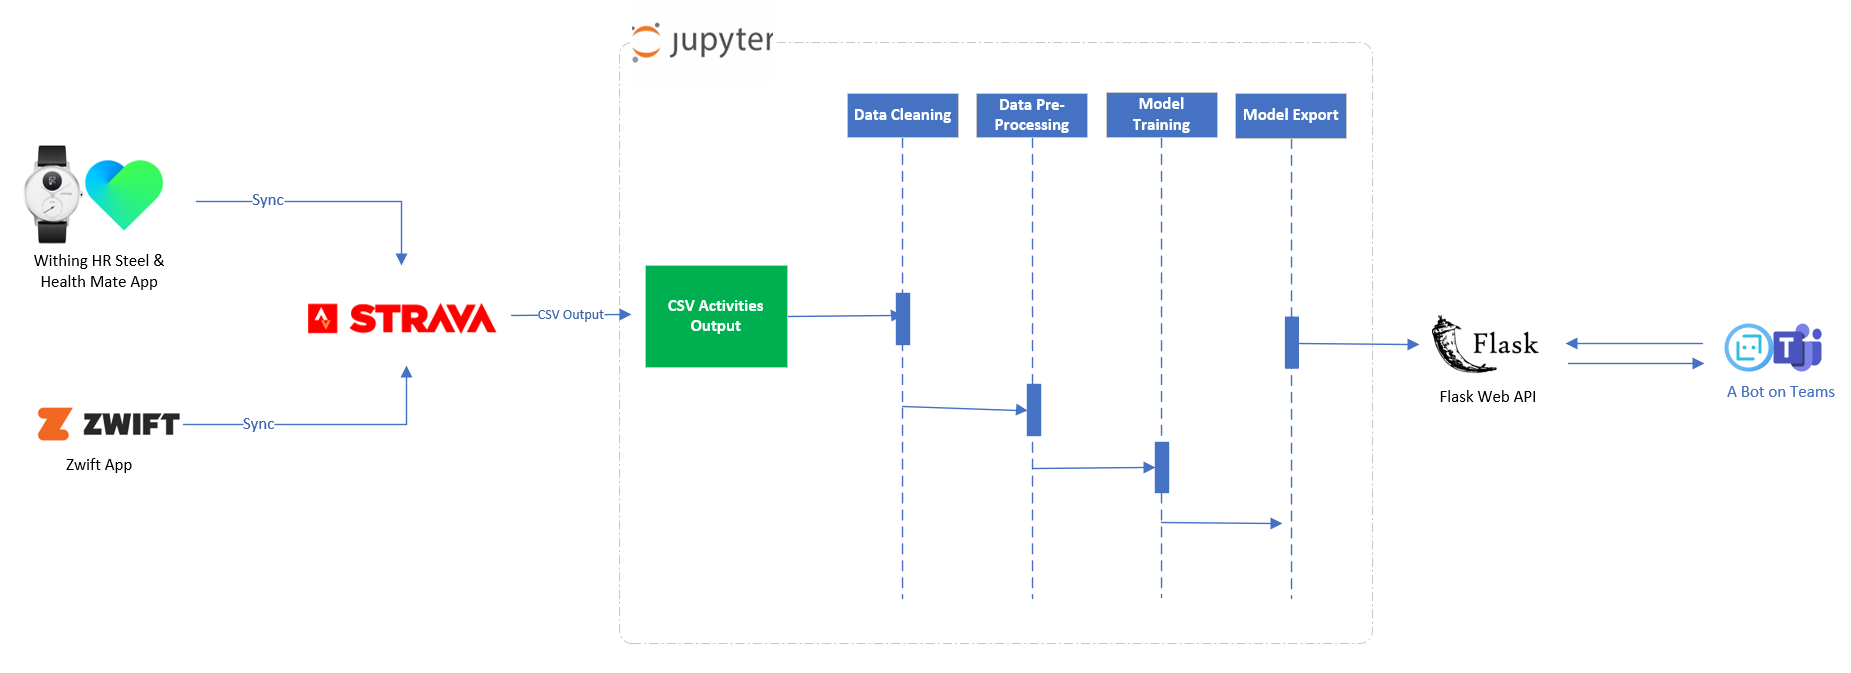
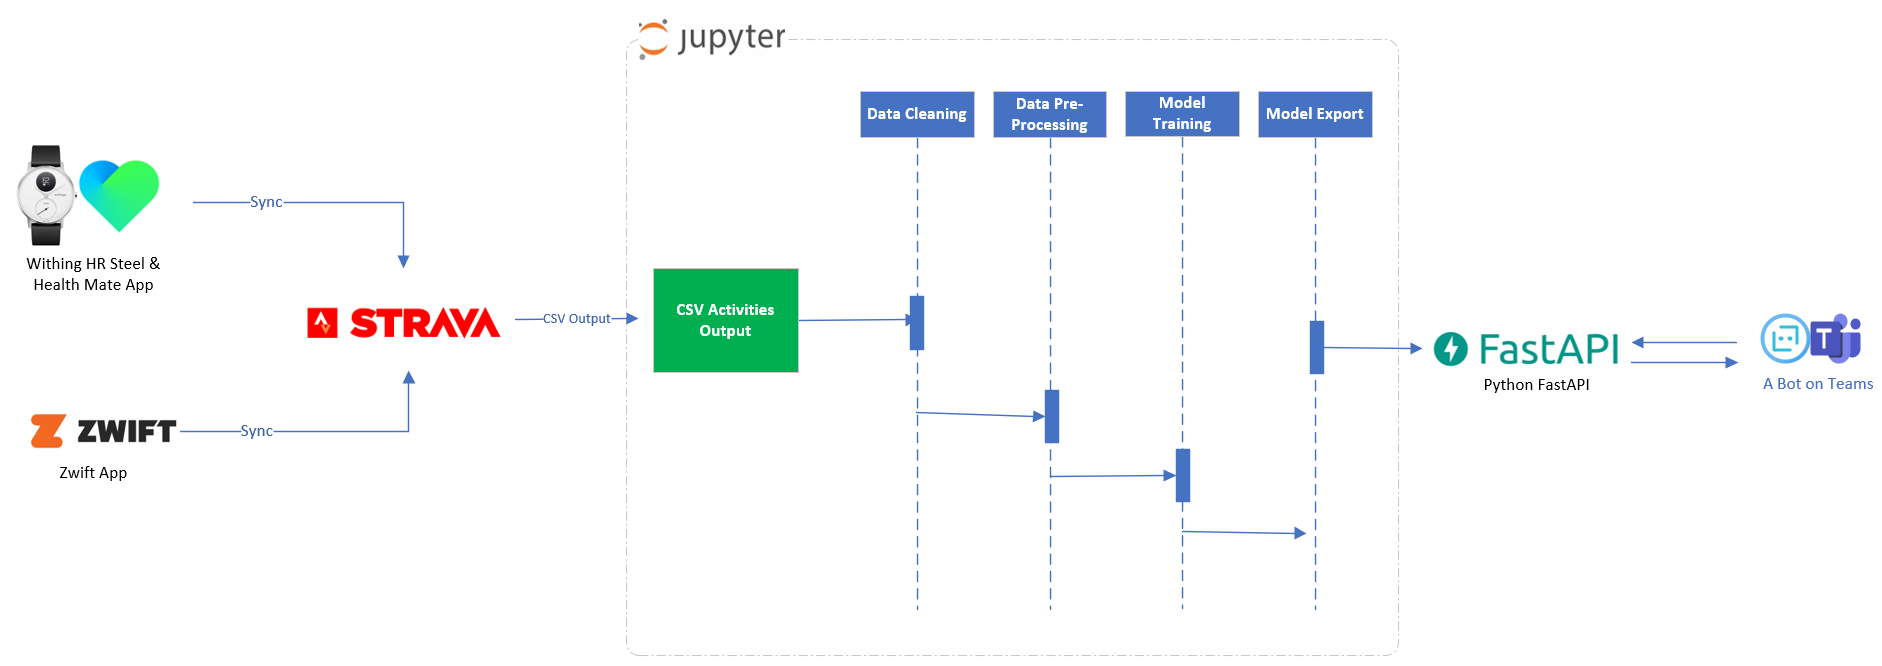
Add FastAPI details on Readme file

diff --git a/Readme.md b/Readme.md
@@ -62,11 +62,11 @@ Folder Structure:
   * `7 - Predict Workout Model.ipynb`
   * `8 - Predict Workout.ipynb`
   * `9 - Present.ipynb` - Highlight for data analysis and results
-  * `app.py` - Flask web app for prediction model*
-  * `myconfig.py` - Environmental variables*
-  * `utils.py` -  Common utility functions
-* `web` - Flask Web API for prediction model
+* `web` - FastAPI for prediction model
   * `model` - Contains models for prediction
+  * `app.py` - FastAPI web app for prediction model
+  * `myconfig.py` - Environmental variables
+  * `utils.py` -  Common utility functions
 
 ## Run the Project
 
@@ -98,37 +98,40 @@ In this sample, Python 3.8.7 version is used, to run the project.
     jupyter notebook
     ```
 
-## Flask Web Application for API
+## Python FastAPI Web Application for API
 
-Run Flask API for running on your local machine
+Run Python FastAPI for running on your local machine
 
 ```bash
 cd web
 ```
 
 ```bash
-flask run
+python app.py
 ```
 
-### Test endpoints
-
-* Predict temperature
-
-    [http://127.0.0.1:5000/predictTemp?city=Istanbul&date=2021-04-10&time=14](http://127.0.0.1:5000/predictTemp?city=Istanbul&date=2021-04-10&time=14)
+### Test endpoint
 
 * Predict Ride Type & Distance
 
-    [http://127.0.0.1:5000/predict?city=Istanbul&date=2021-04-10&time=14:00:00](http://127.0.0.1:5000/predict?city=Istanbul&date=2021-04-10&time=14:00:00)
+    [http://127.0.0.1:8000/predict?city=Istanbul&date=2021-04-10&time=14:00:00](http://127.0.0.1:8000/predict?city=Istanbul&date=2021-04-10&time=14:00:00)
 
 ## Publish Web App
 
-Publish python flask web app to Azure Web App service
+Publish Python FastAPI to Azure Web App service
 
 ```bash
 cd web
 
 az webapp up --sku B1 --name data-driven-cycling
 
+```
+
+Update startup command on Azure Portal,  
+Settings > Configuration > General settings > Startup Command
+
+```bash
+gunicorn -w 4 -k uvicorn.workers.UvicornWorker main:app
 ```
 
 to re-deploy and update existing application:
